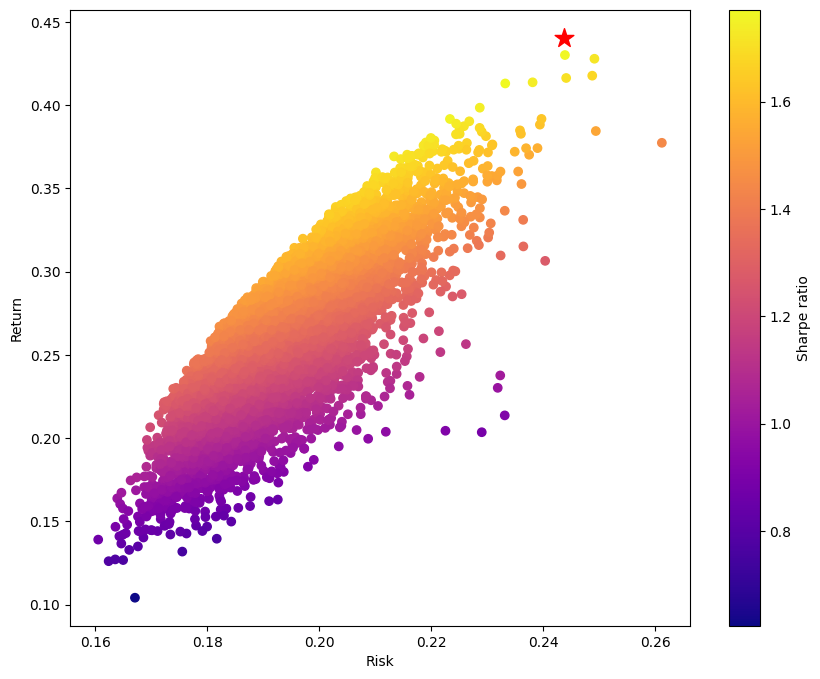
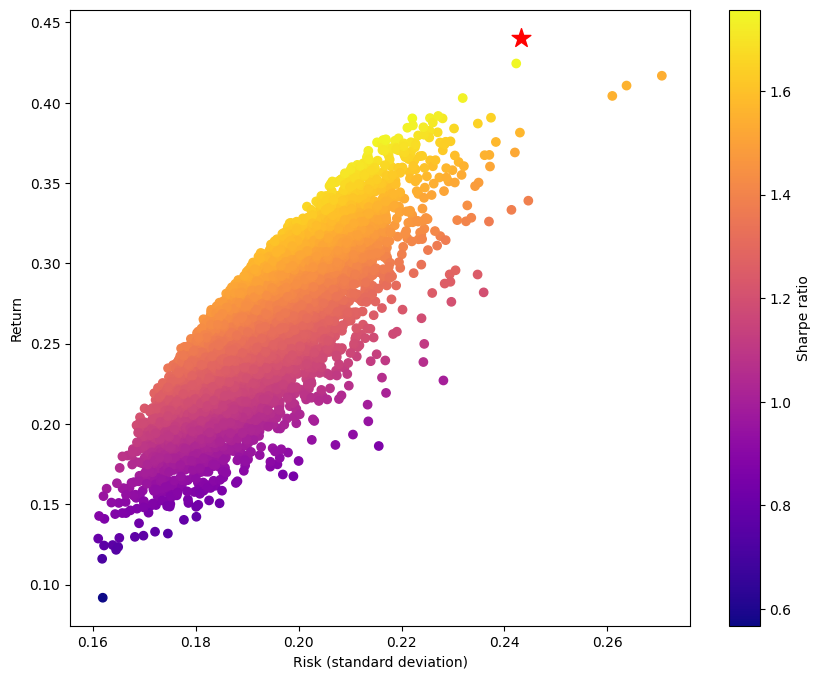
Fix Sharpe ratio example code (#115)
- Fix docs figure code and clarify 'risk' meaning

diff --git a/docs/source/mods/sharpe-ratio.rst b/docs/source/mods/sharpe-ratio.rst
@@ -138,9 +138,9 @@ One can optionally pass in ``rf_rate``, the non-negative risk-free return rate :
 The ``max_sharpe_ratio`` function returns a :class:`~gurobi_optimods.sharpe_ratio.SharpeRatioResult` instance. This object contains information about the computed portfolio. It features the following attributes:
 
 * ``x``: The portfolio that maximizes the Sharpe ratio. The values in the portfolio represent the relative weights that should be allocated to each asset. These weights sum to 1. If ``cov_matrix`` and/or ``mu`` were given as a pandas object, the portfolio is a :class:`pandas.Series`. Otherwise, the portfolio is a :class:`numpy.ndarray`.
-* ``sharpe_ratio``: The Sharpe ratio of the optimal portfolio.
-* ``ret``: The estimated return of the optimal portfolio.
-* ``risk``: The estimated risk of the optimal portfolio.
+* ``sharpe_ratio``: The Sharpe ratio :math:`(\mu^\top x - r_f) / \sqrt{x^\top \Sigma x}` of the optimal portfolio.
+* ``ret``: The estimated return :math:`\mu^\top x` of the optimal portfolio.
+* ``risk``: The estimated risk :math:`x^\top \Sigma x` of the optimal portfolio.
 
 Example code
 ------------
@@ -199,6 +199,7 @@ In the code below, we randomly generate 10,000 portfolios for the six assets fro
 
 .. code-block:: Python
 
+    import math
     import numpy as np
     import matplotlib.pyplot as plt
 
@@ -209,7 +210,7 @@ In the code below, we randomly generate 10,000 portfolios for the six assets fro
     wts = np.random.random((num_portfolios, num_assets))
     wts = wts / wts.sum(axis=1, keepdims=1)
 
-    # Calculate return, risk, and Sharpe ratio of each random portfolio
+    # Calculate return, standard deviation, and Sharpe ratio of each random portfolio
     risks = np.array([np.sqrt(wts[i] @ data.cov_matrix @ wts[i]) for i in range(num_portfolios)])
     returns = wts @ data.mu
     sharpe_ratios = returns / risks
@@ -218,9 +219,9 @@ In the code below, we randomly generate 10,000 portfolios for the six assets fro
     plt.figure(figsize=(10, 8))
     plt.scatter(risks, returns, c=sharpe_ratios, cmap="plasma")
     plt.colorbar(label="Sharpe ratio")
-    plt.xlabel("Risk")
+    plt.xlabel("Risk (standard deviation)")
     plt.ylabel("Return")
-    plt.scatter(portfolio.risk, portfolio.ret, marker="*", c="red", s=200)
+    plt.scatter(math.sqrt(portfolio.risk), portfolio.ret, marker="*", c="red", s=200)
 
     plt.show()
 
